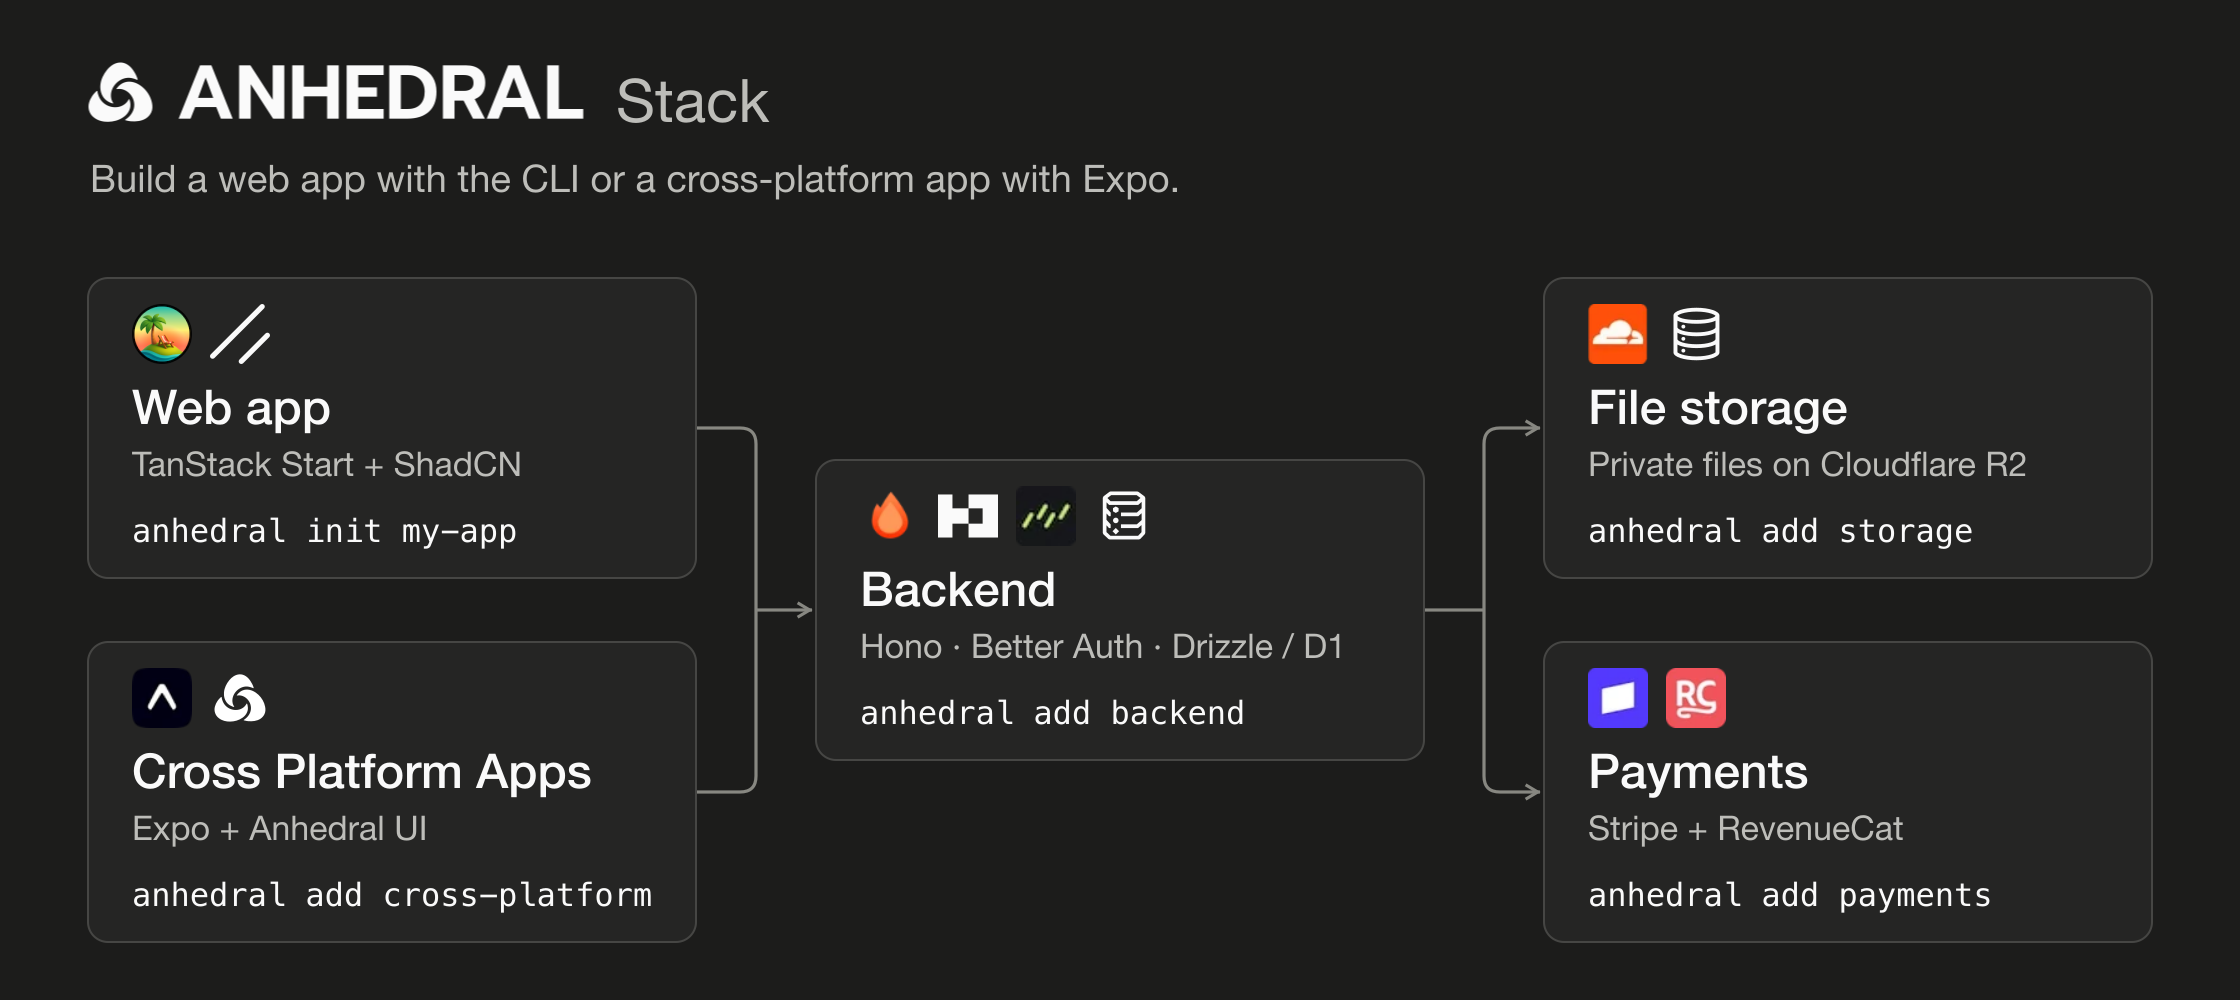
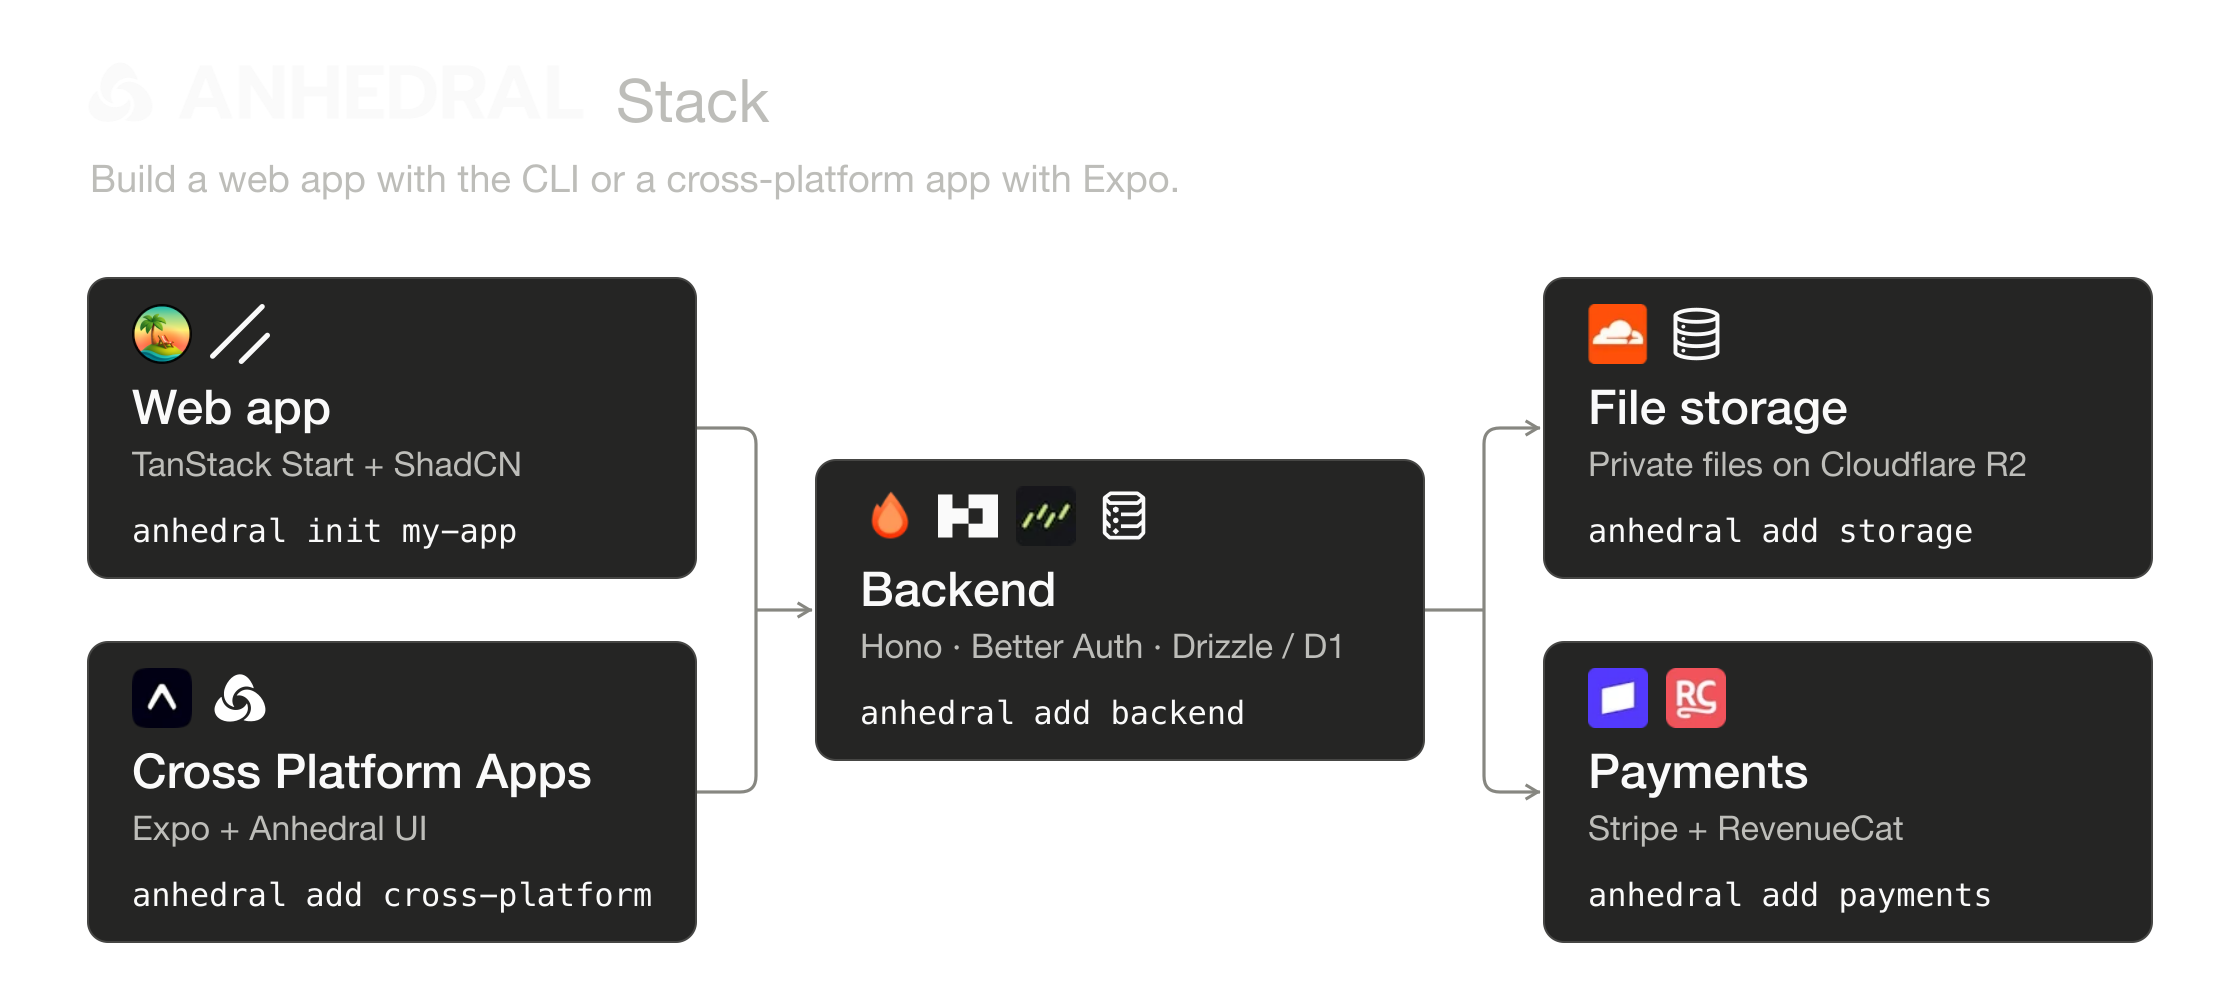
Match the GitHub README background and restore the construction notice (#151)
* Let the CLI stack diagram inherit the README background

* Flag active construction at the top of the CLI README

diff --git a/README.md b/README.md
@@ -1,5 +1,8 @@
 # Anhedral CLI
 
+> [!WARNING]
+> **Under heavy construction.** CLI commands and generated app code may change.
+
 Build an app one addition at a time. Generated applications are editable source. Start with a TanStack Start web app and ShadCN components. Add a backend when you need an API, authentication, or a database. Then choose storage, payments, or both.
 
 <picture>
